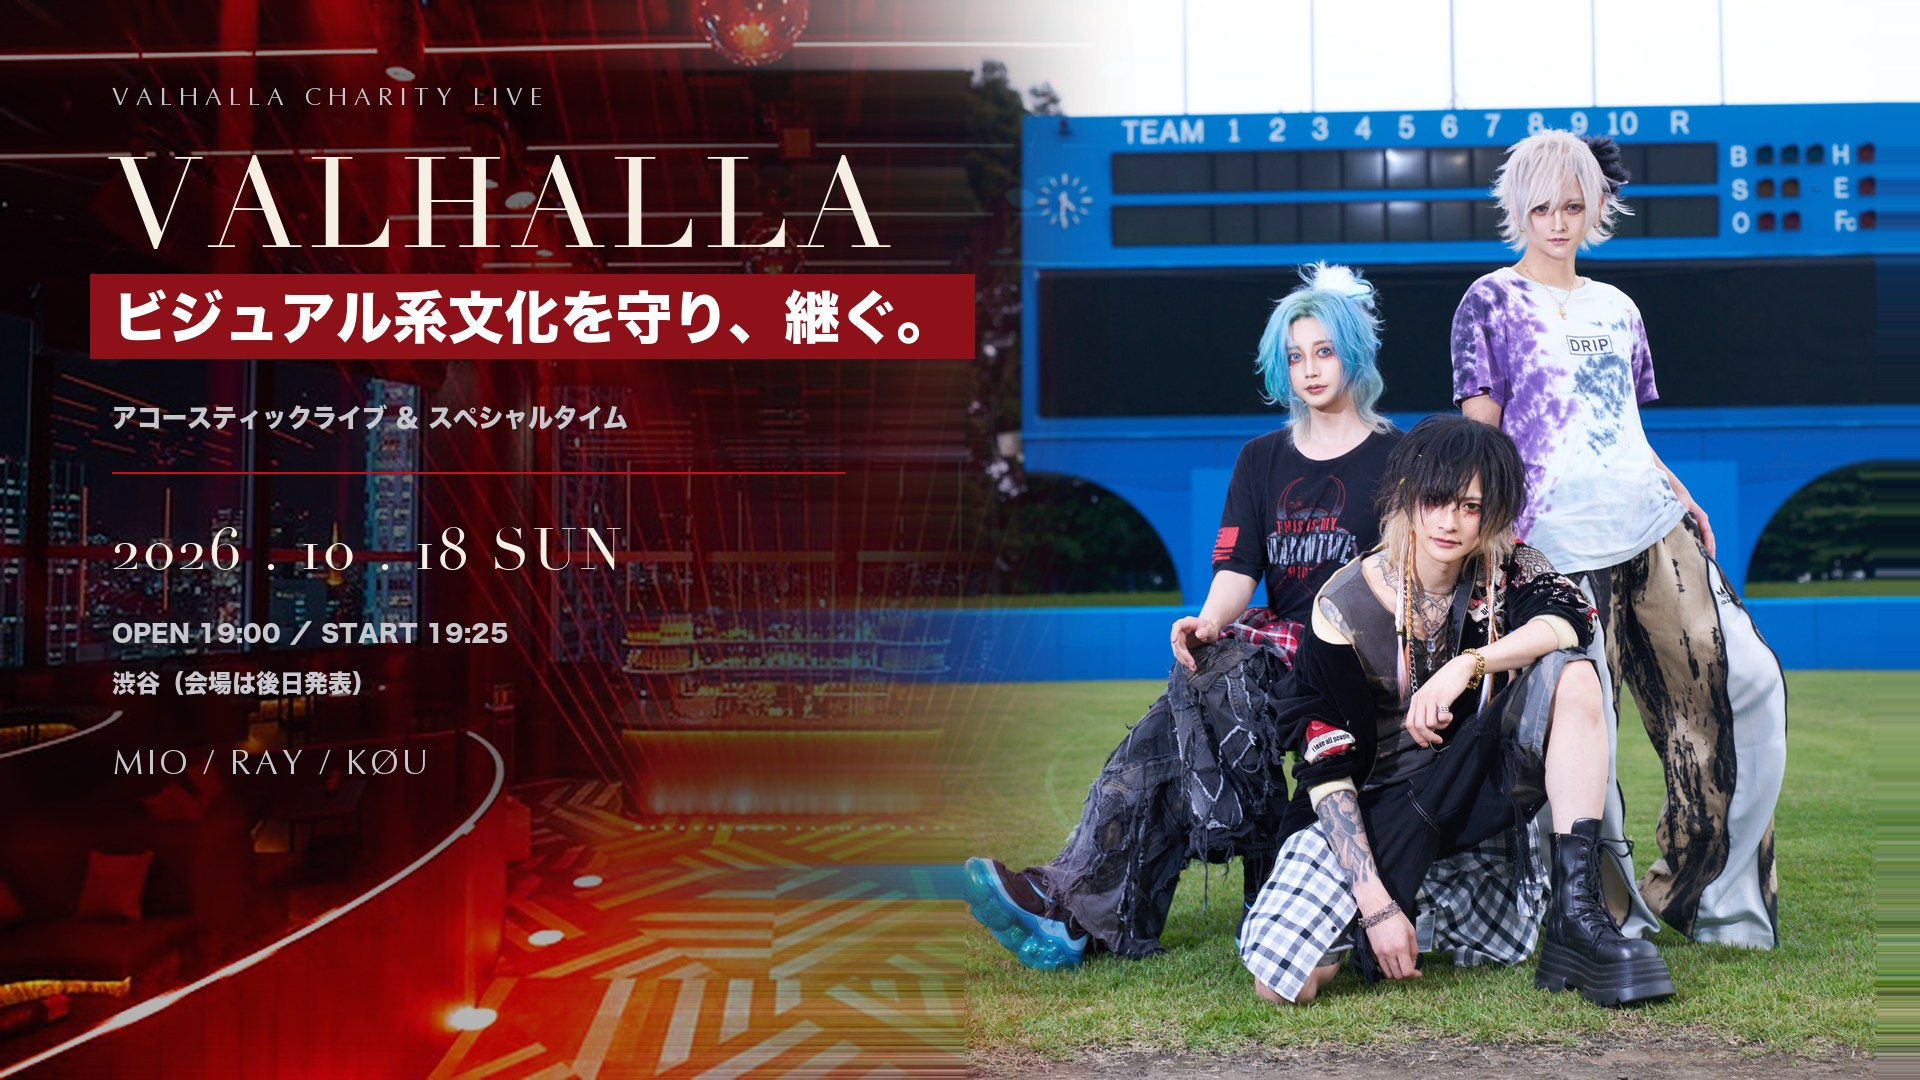
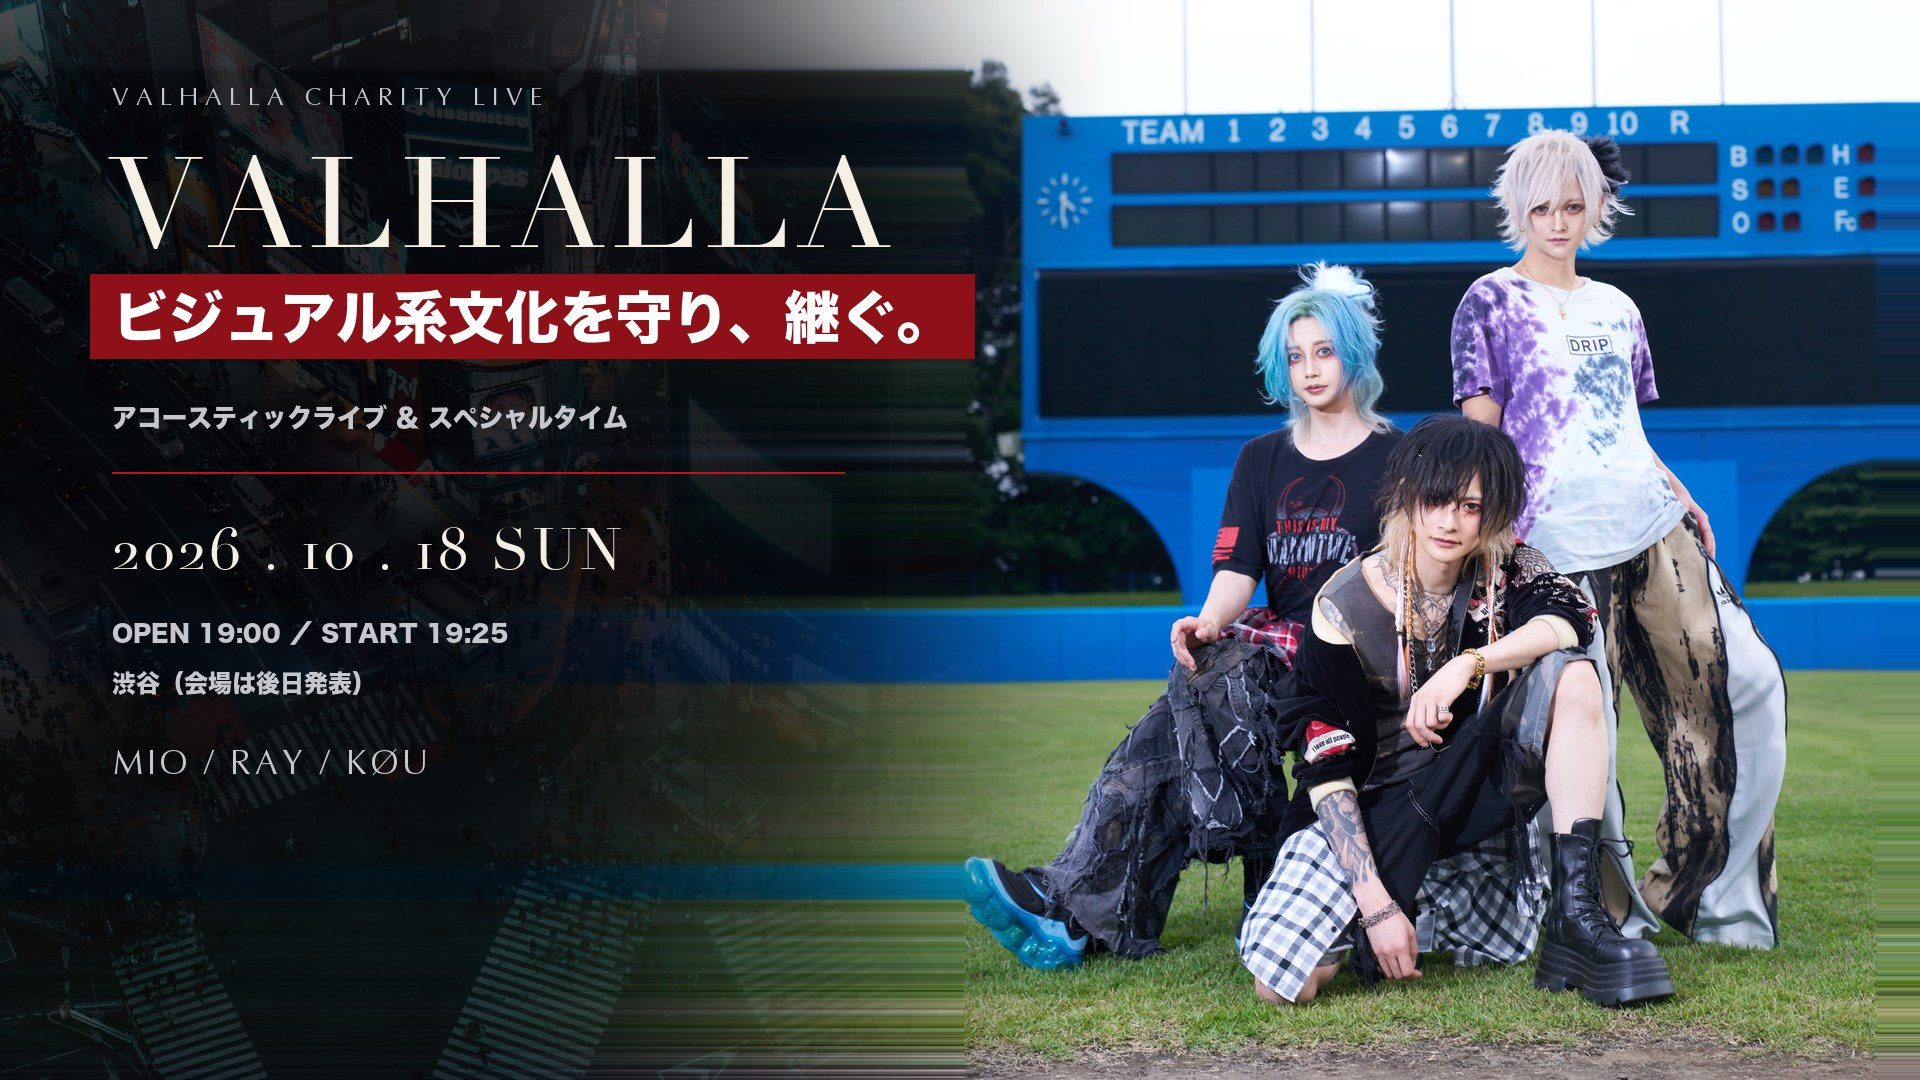
charity: put the flyer's Shibuya photo where the venue shots were
Every image that showed the venue's red-laser interior now carries the
same Shibuya night photograph the official flyer uses, dimmed and faded
so it reads as a background: the main visual, the activity axis, the
donation flow, and the LP's hero, page background and event card. The
hero scrim is heavier so the logo still reads over the brighter photo.

The flow diagram also still said 「収益は全て寄付」 -- the phrasing we took
off the flyer this morning -- and now says 経費を除いた全額 with 然るべき
団体へ寄付 beneath it.

diff --git a/charity.html b/charity.html
@@ -36,8 +36,8 @@
   /* 引き（部屋全体）で表示：幅いっぱいに全体を出し拡大しない→粗さ回避。下側は暗くフェード */
   .hero::before{content:"";position:absolute;inset:0;z-index:-1;pointer-events:none;
     background:
-      linear-gradient(180deg,rgba(7,4,6,.34) 0%,rgba(7,4,6,0) 16%,rgba(7,4,6,0) 56%,rgba(7,4,6,.92) 86%,#070406 100%),
-      url('assets/charity/venue/celavi_red_hero.jpg') top center / 100% auto no-repeat;
+      linear-gradient(180deg,rgba(7,4,6,.62) 0%,rgba(7,4,6,.44) 20%,rgba(7,4,6,.46) 56%,rgba(7,4,6,.94) 86%,#070406 100%),
+      url('assets/charity/venue/shibuya_night.jpg') top center / 100% auto no-repeat;
     opacity:.97}
   /* 一番上：VALHALLA ／× 東大 の2分割ビジュアル（バンド3人は全員収まるcontain） */
   .split{position:relative;height:240px;margin:-40px -24px 24px;overflow:hidden;background:#000}
@@ -312,7 +312,7 @@
   html{background:#050307}
   body{background:transparent !important}
   body::before{content:"";position:fixed;inset:0;z-index:-2;pointer-events:none;
-    background:url('assets/charity/venue/celavi_red.jpg') center/cover no-repeat;
+    background:url('assets/charity/venue/shibuya_night.jpg') center/cover no-repeat;
     opacity:.5}
   body::after{content:"";position:fixed;inset:0;z-index:-1;pointer-events:none;
     background:linear-gradient(180deg, rgba(5,3,7,.42), rgba(5,3,7,.66))}
@@ -385,7 +385,7 @@
 <body>
 
 <!-- ===== 背景ループ動画（全画面・うっすら）===== -->
-<video class="bgvid" autoplay muted loop playsinline poster="assets/charity/venue/celavi_red.jpg" aria-hidden="true">
+<video class="bgvid" autoplay muted loop playsinline poster="assets/charity/venue/shibuya_night.jpg" aria-hidden="true">
   <source src="assets/charity/video/bg_loop.mp4" type="video/mp4">
 </video>
 
@@ -506,7 +506,7 @@
 
   <div class="ev">
     <div class="c">
-      <img class="ev-img" src="assets/charity/venue/celavi_red.jpg" alt="会場イメージ" style="height:230px">
+      <img class="ev-img" src="assets/charity/venue/shibuya_night.jpg" alt="会場イメージ" style="height:230px">
       <div class="cbody">
         <span class="t">メイン会場</span>
         <h3>渋谷（会場は後日発表）</h3>

diff --git a/assets/charity/create_flyer_wide.py b/assets/charity/create_flyer_wide.py
@@ -8,7 +8,7 @@ import os
 
 HERE = Path(__file__).resolve().parent
 SOURCE = HERE / "group_field.jpg"
-VENUE = HERE / "venue" / "celavi_red_hero.jpg"
+VENUE = HERE / "venue" / "shibuya_night.jpg"
 OUTPUT = HERE / "flyer_wide.jpg"
 
 W, H = 1920, 1080
@@ -85,10 +85,12 @@ def make_background() -> Image.Image:
     right_fill = portrait.crop((portrait_w - 1, 0, portrait_w, H)).resize((42, H))
     im.paste(right_fill, (W - 42, 0))
 
-    # Place the ungraded venue photograph over the full-height group image.
-    # Its strongest laser field is kept at the left, then dissolved into the
-    # group photograph over a wide, smoothstep-eased 650 px transition.
+    # Lay the Shibuya night photograph — the same one the official flyer uses —
+    # under the left of the group image, dimmed so it reads as a background
+    # rather than a subject, then dissolved into the group photograph over a
+    # wide, smoothstep-eased 650 px transition.
     venue = Image.open(VENUE).convert("RGB")
+    venue = Image.blend(venue, Image.new("RGB", venue.size, BLACK), 0.64)
     scale = H / venue.height
     venue = venue.resize((round(venue.width * scale), round(venue.height * scale)),
                          Image.Resampling.LANCZOS)
@@ -96,12 +98,12 @@ def make_background() -> Image.Image:
     venue_layer.paste(venue, (0, 0))
     venue_mask = Image.new("L", (W, H), 0)
     venue_mask_px = venue_mask.load()
-    fade_start, fade_end = 500, 1150
+    fade_start, fade_end = 430, 1060
     for y in range(H):
         for x in range(W):
             t = max(0.0, min(1.0, (x - fade_start) / (fade_end - fade_start)))
             smooth = t * t * (3.0 - 2.0 * t)
-            venue_mask_px[x, y] = round(255 * 0.98 * (1.0 - smooth))
+            venue_mask_px[x, y] = round(255 * 0.92 * (1.0 - smooth))
     im = Image.composite(venue_layer, im, venue_mask)
 
     # A near-black scrim protects the type while leaving the venue's laser

diff --git a/assets/charity/create_flow_banner.py b/assets/charity/create_flow_banner.py
@@ -14,7 +14,7 @@ from PIL import Image, ImageDraw, ImageEnhance, ImageFilter, ImageFont, ImageOps
 
 
 HERE = Path(__file__).resolve().parent
-CELAVI = HERE / "venue" / "celavi_red.jpg"
+SHIBUYA = HERE / "venue" / "shibuya_night.jpg"
 OUTPUT = HERE / "flow_banner.jpg"
 
 W, H = 1774, 887
@@ -224,7 +224,7 @@ def add_nodes(base: Image.Image) -> None:
 
     # 3: circular, antialiased photo window.
     base.alpha_composite(layer)
-    circle_photo(base, CELAVI, (centers_x[2], cy), diameter, 0.50, 0.46)
+    circle_photo(base, SHIBUYA, (centers_x[2], cy), diameter, 0.50, 0.46)
 
     outlines = Image.new("RGBA", base.size, (0, 0, 0, 0))
     od = ImageDraw.Draw(outlines)
@@ -271,7 +271,7 @@ def add_nodes(base: Image.Image) -> None:
         "支援者の想い",
         "クラウドファンディング",
         "一夜限りのライブ",
-        "収益は全て寄付",
+        "経費を除いた全額",
         "文化を、次の世代へ",
     )
     for x, text in zip(centers_x, labels):
@@ -281,7 +281,7 @@ def add_nodes(base: Image.Image) -> None:
 
     td.text(spos((centers_x[2], 549)), "渋谷",
             font=small_font, fill=SILVER, anchor="ma")
-    td.text(spos((centers_x[3], 549)), "然るべき団体へ",
+    td.text(spos((centers_x[3], 549)), "然るべき団体へ寄付",
             font=small_font, fill=SILVER, anchor="ma")
     td.text(spos((centers_x[4], 549)), "教育・文化を支える活動へ",
             font=small_font, fill=SILVER, anchor="ma")
@@ -303,7 +303,7 @@ def add_typography(base: Image.Image) -> None:
 
 
 def main() -> None:
-    if not CELAVI.exists():
+    if not SHIBUYA.exists():
         raise FileNotFoundError("Required image assets are missing")
 
     canvas = make_background()

diff --git a/assets/charity/create_axis_banner.py b/assets/charity/create_axis_banner.py
@@ -12,7 +12,7 @@ from PIL import Image, ImageDraw, ImageEnhance, ImageFilter, ImageFont, ImageOps
 
 HERE = Path(__file__).resolve().parent
 NEZU = HERE / "nezu" / "nezu_flyer_fixed.jpg"
-CELAVI = HERE / "venue" / "celavi_red.jpg"
+SHIBUYA = HERE / "venue" / "shibuya_night.jpg"
 OUTPUT = HERE / "axis_banner.jpg"
 
 W, H = 1774, 887
@@ -153,7 +153,7 @@ def add_timeline(base: Image.Image) -> None:
     add_light_ribbon(base, y=290, start=left[0] + radius, end=right[0] - radius)
 
     circle_photo(base, left, diameter, NEZU, crop_box=(79, 55, 459, 435))
-    circle_photo(base, right, diameter, CELAVI, focal_x=0.5, focal_y=0.5, zoom=1.0)
+    circle_photo(base, right, diameter, SHIBUYA, focal_x=0.5, focal_y=0.5, zoom=1.0)
     outline = Image.new("RGBA", base.size, (0, 0, 0, 0))
     draw_ring(ImageDraw.Draw(outline), left, diameter)
     draw_ring(ImageDraw.Draw(outline), right, diameter)
@@ -221,7 +221,7 @@ def add_header(base: Image.Image) -> None:
 
 
 def main() -> None:
-    for required in (NEZU, CELAVI):
+    for required in (NEZU, SHIBUYA):
         if not required.exists():
             raise FileNotFoundError(f"Required photograph is missing: {required}")
     canvas = make_background()
